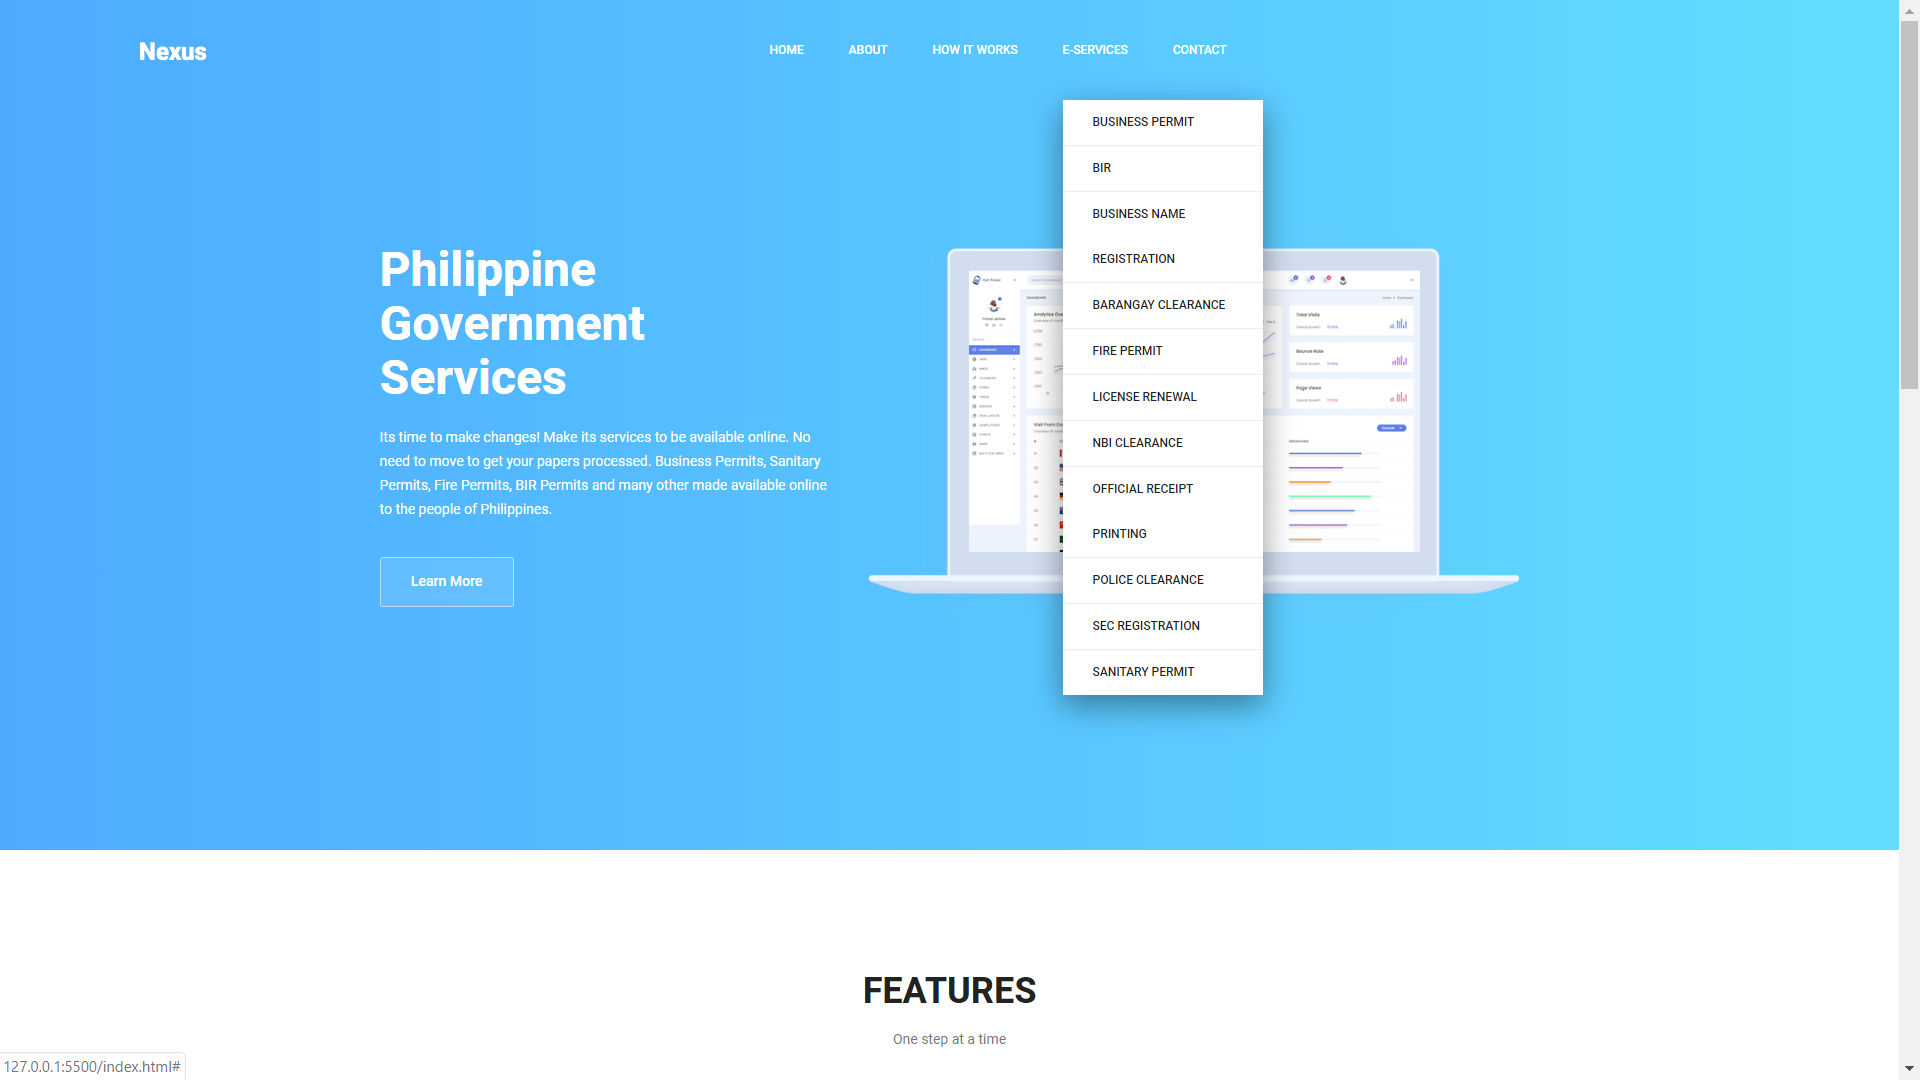
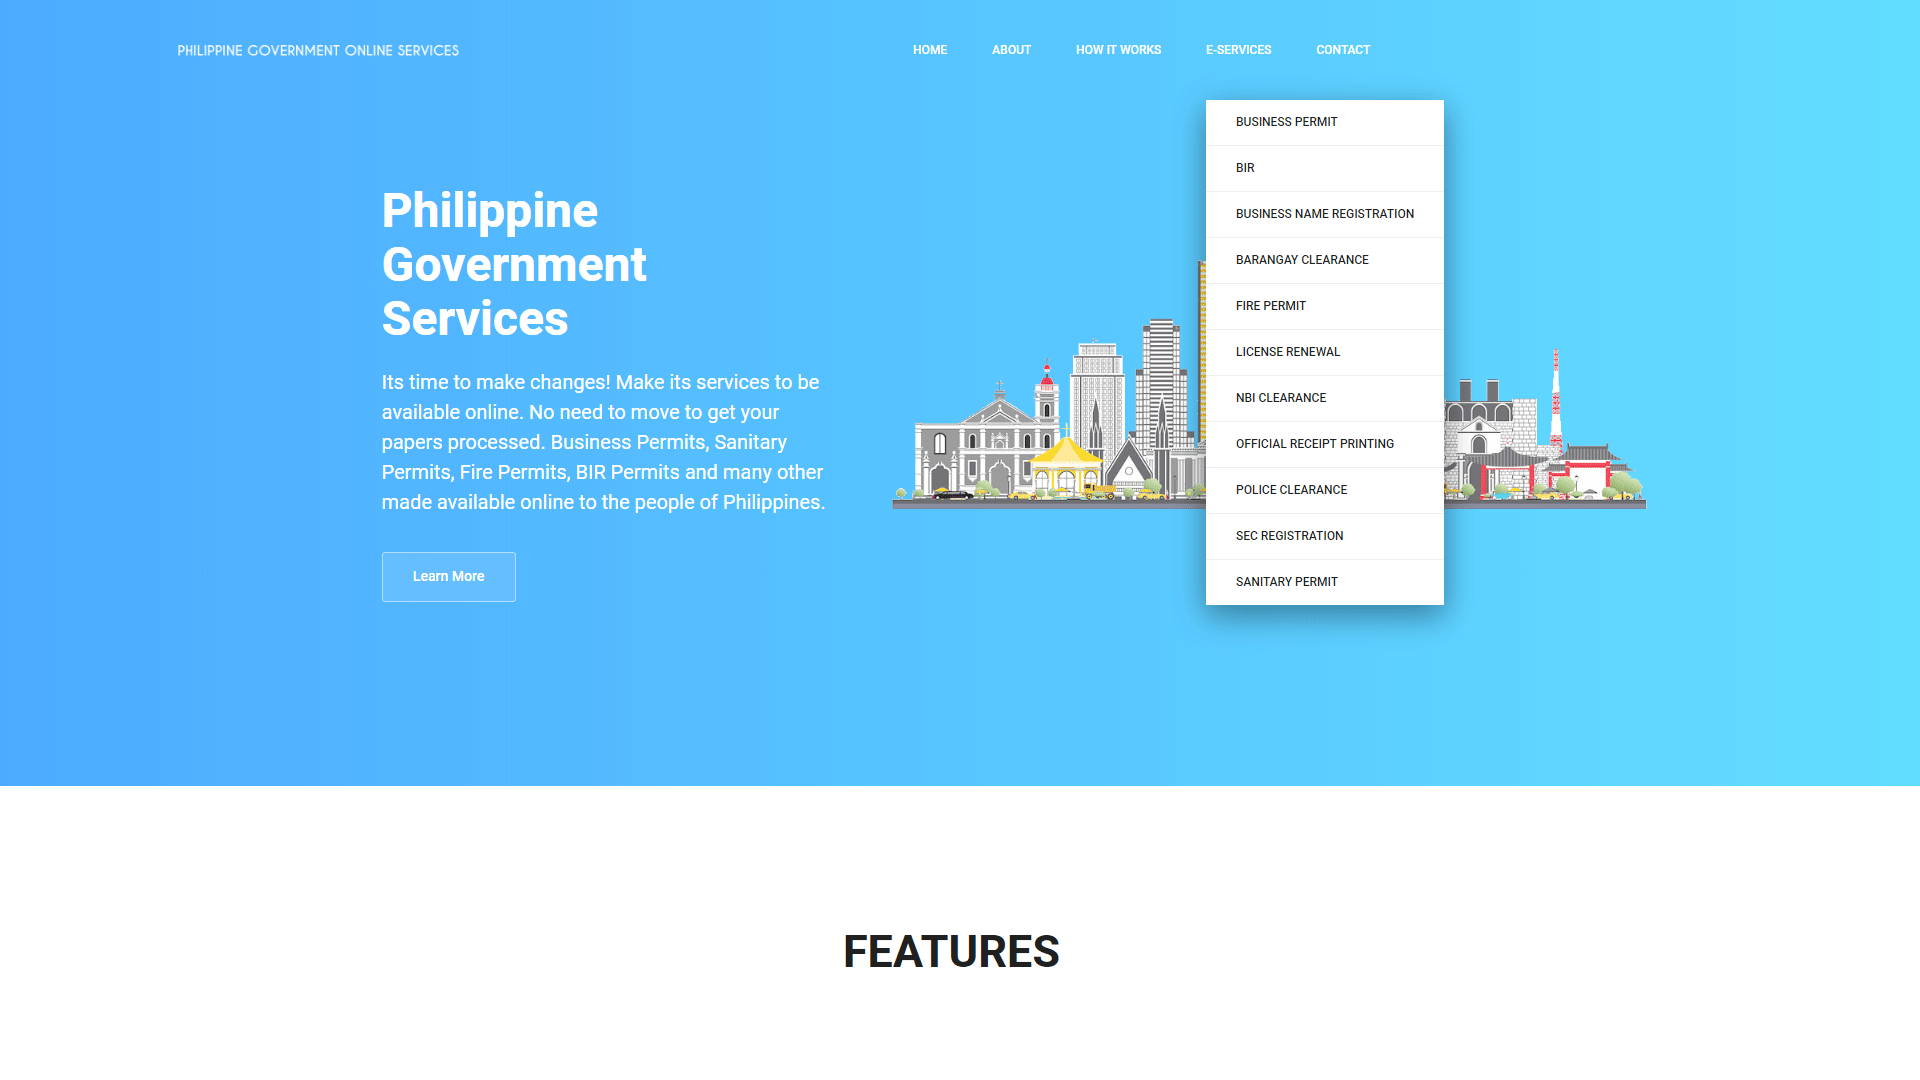
Changed picture sa we have everything u need

diff --git a/css/style.css b/css/style.css
@@ -325,7 +325,7 @@ button:focus {
       .home_banner_area .banner_inner .banner_content p {
         color: #fff;
         font-family: "Roboto", sans-serif;
-        font-size: 20px;
+        font-size: 120%;
         line-height: 30px;
         margin-bottom: 35px; }
       .home_banner_area .banner_inner .banner_content .banner_map_img {
@@ -2713,6 +2713,9 @@ h6 {
 .made_life_text .col-lg-6 {
   vertical-align: middle;
   align-self: center; }
+.made_life_text .col-lg-12 {
+  vertical-align: middle;
+  text-align: left; }
 .made_life_text h3 {
   color: #222222;
   line-height: 45px;
@@ -2734,6 +2737,12 @@ h6 {
   margin-bottom: 40px; }
 .screen_area img {
   margin-bottom: -30px; }
+
+.screen_area1 .main_title {
+  margin-bottom: -50px; }
+.screen_area1 img {
+  margin-bottom: -30px; }
+
 
 /* End Work Area css
 ============================================================================================ */
